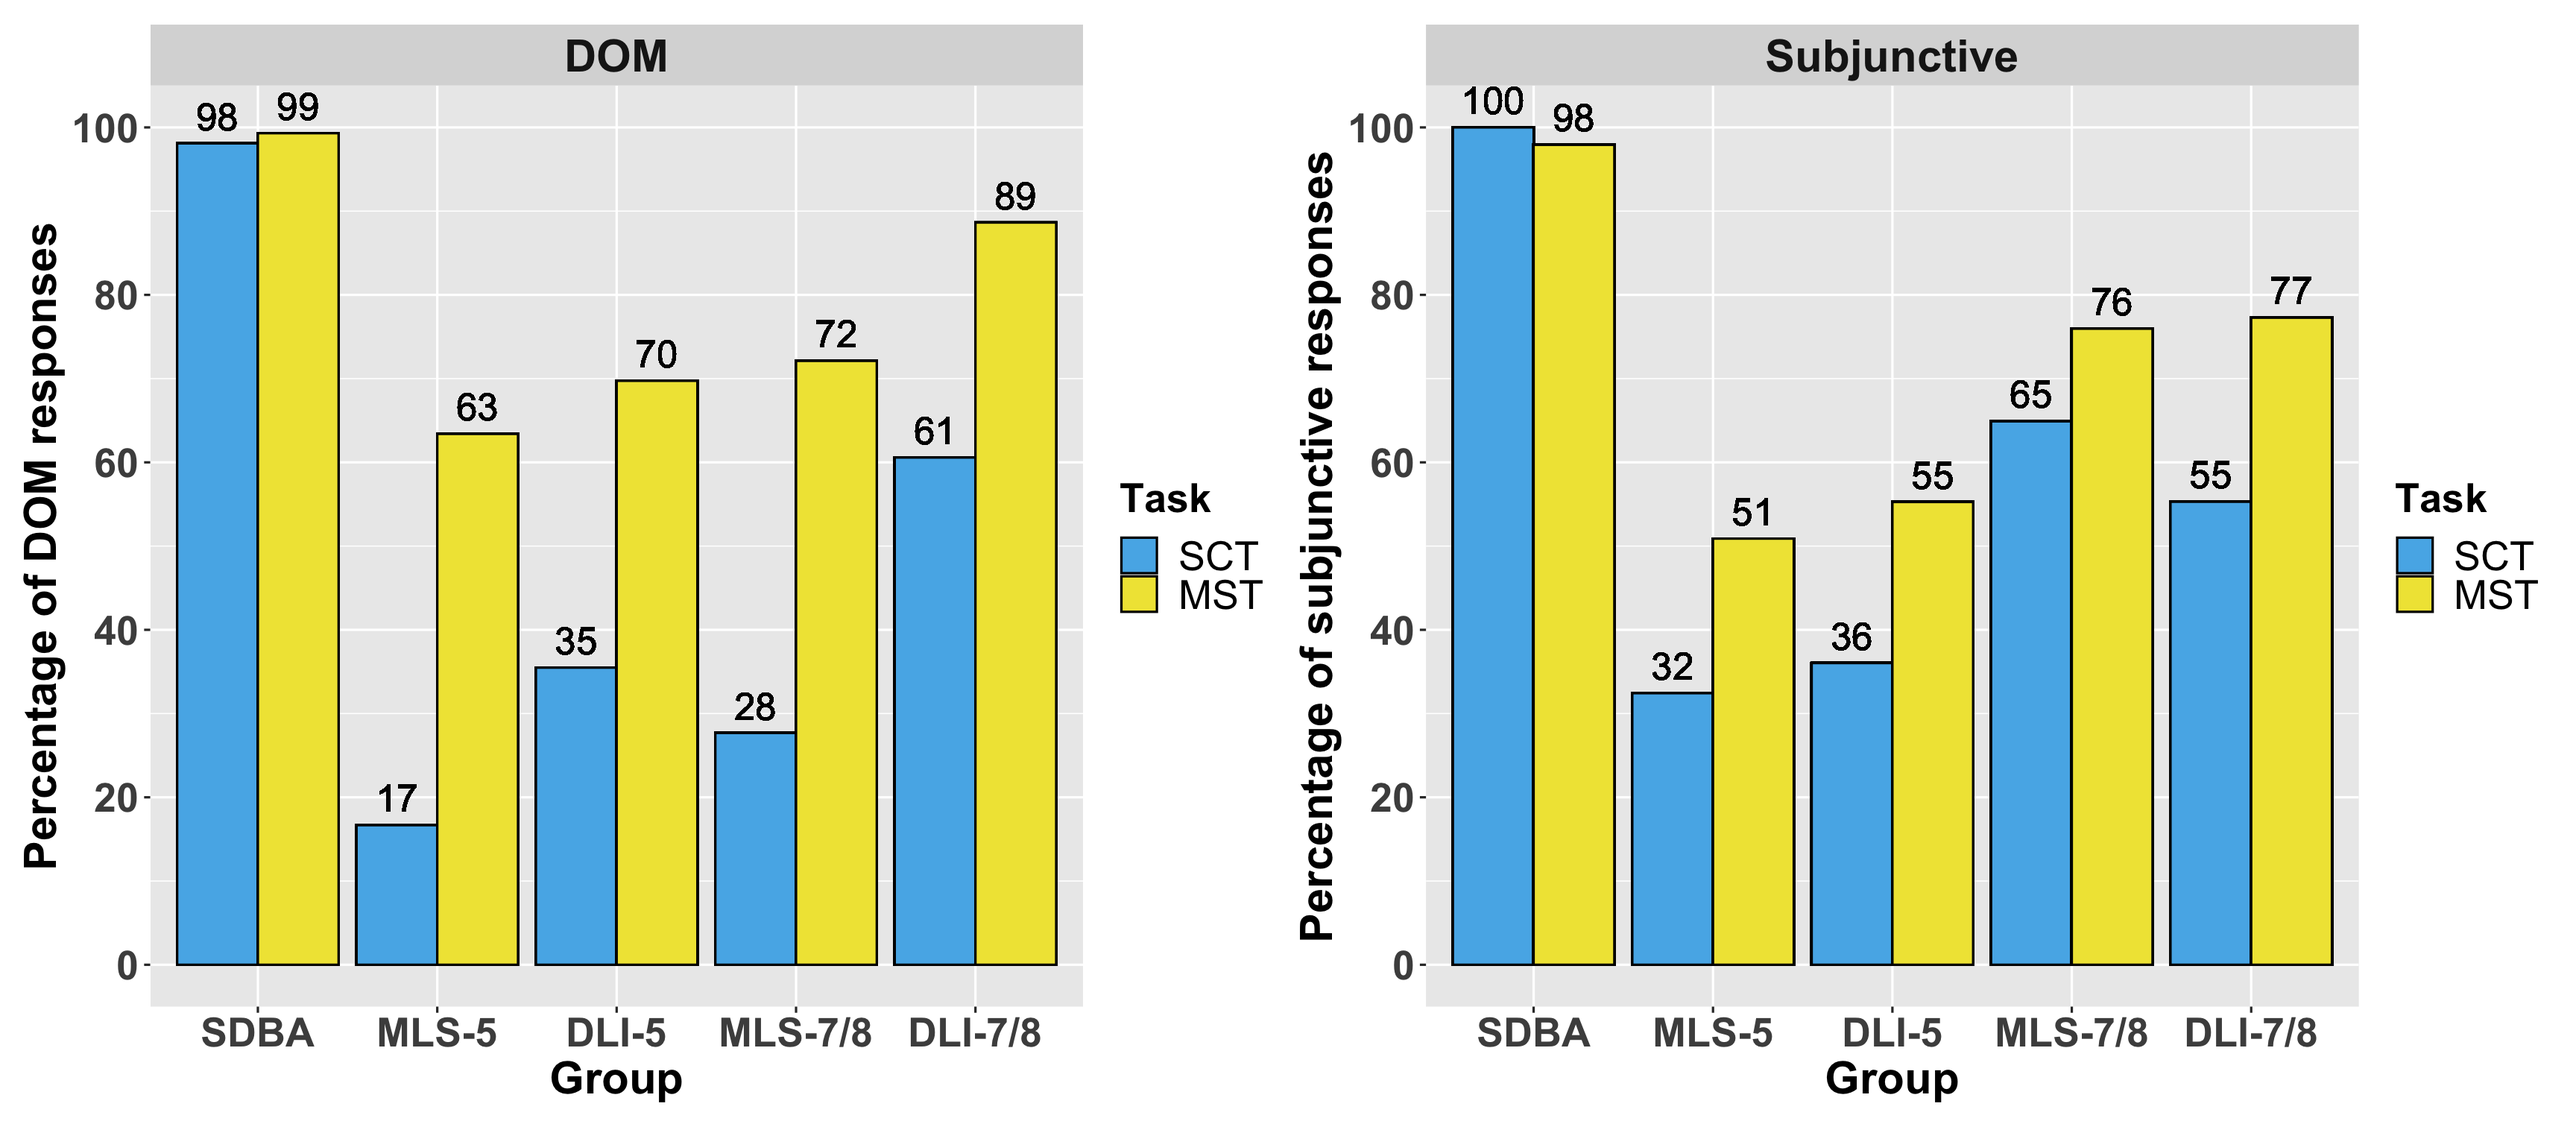
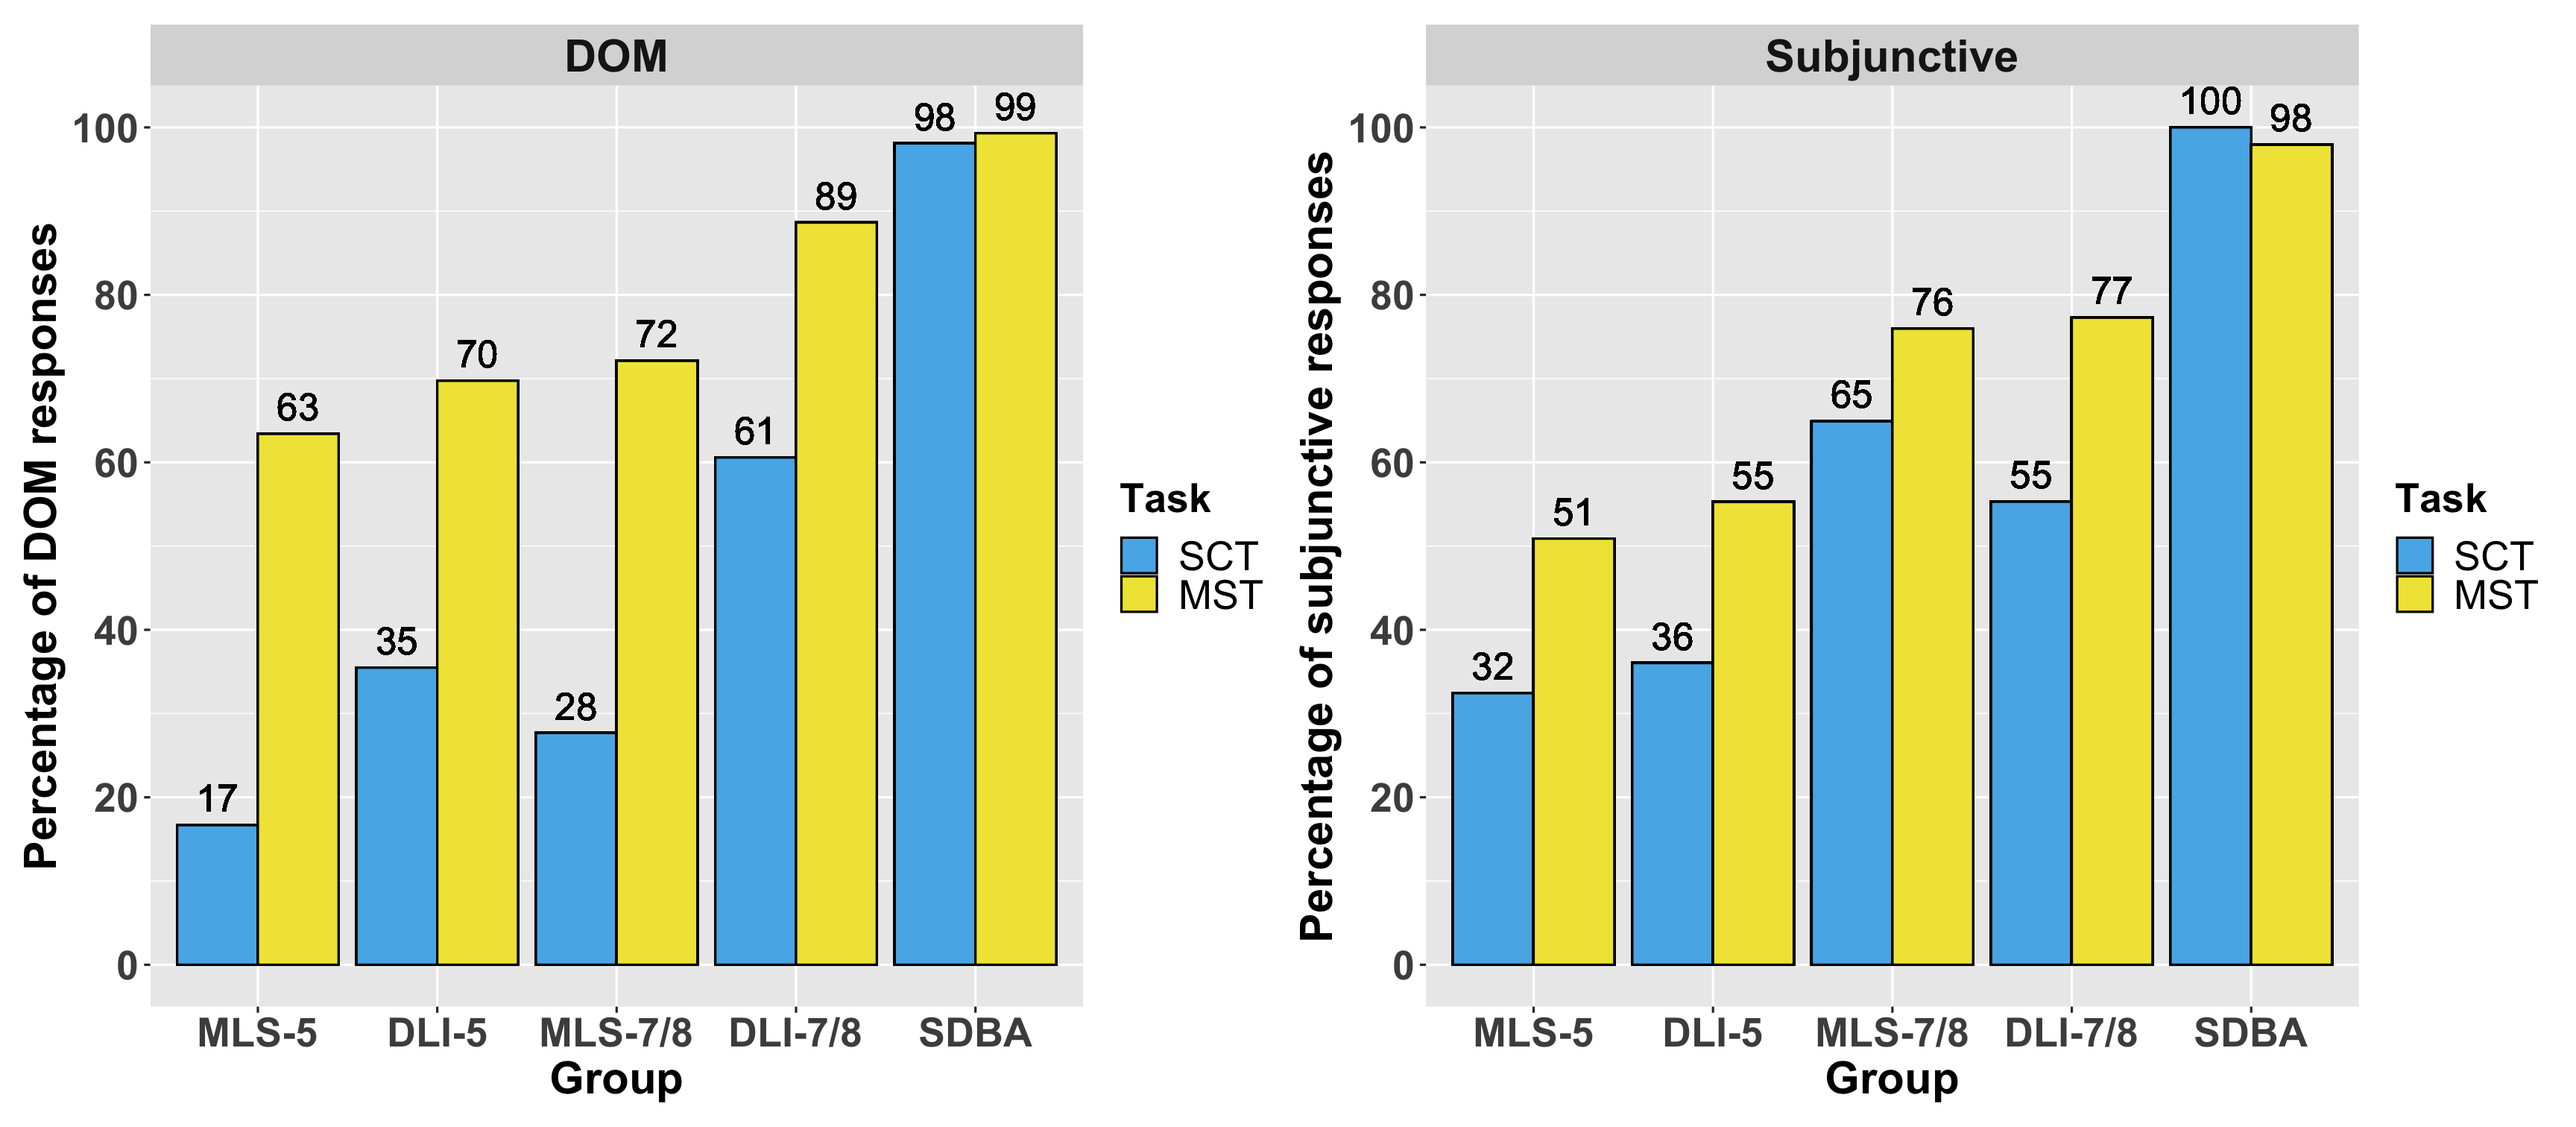
Update EDUC749

diff --git a/EDUC749/index.html b/EDUC749/index.html
@@ -501,7 +501,7 @@ La mamá sabe que Juanito tiene miedo de alturas. No quiere subir al tobogán 
   + Task (SCT, production versus MST, receptive)
 
 --
-  + School type (DLI versus MLS/monolingual school)
+  + Group (MLS-5, DLI-5, MLS-7/8, DLI-7/8)
 
 --
   + Age group (5th grade versus 7th/8th grade)
@@ -633,10 +633,8 @@ La mamá sabe que Juanito tiene miedo de alturas. No quiere subir al tobogán 
 --
   + DLI-7/8 were greater than both monolingually-educated groups
 
-
 --
   + DLI-7/8 were not different from DLI-5 (same school, different age)
-
 
 --
   + DLI-5 were not different from MLS-5 (same age, different school)
@@ -876,7 +874,7 @@ La mamá sabe que Juanito tiene miedo de alturas. No quiere subir al tobogán 
 - Age *and* bilingual education appear to interact in the acquisition of DOM
 
 --
-  + Neither variable alone appears to matter by itself, but more statistics would be needed to back up this claim
+  + Neither variable appears to matter by itself, but more statistics would be needed to back up this claim
 
 --
   + Such an effect is called an *interaction* because there is a relationship between two independent variables (that is, X sometimes affects Y)
